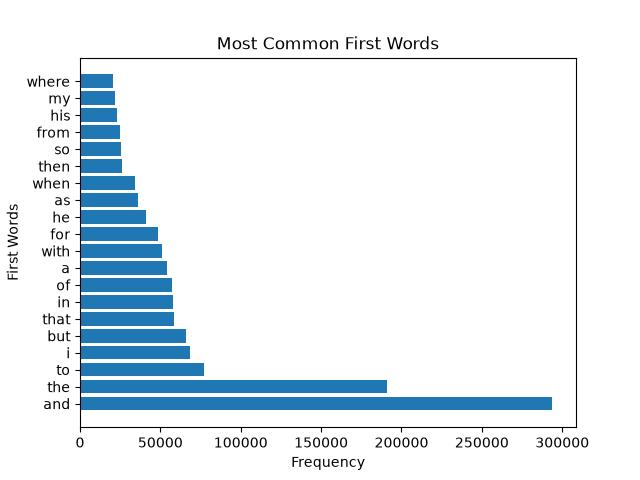
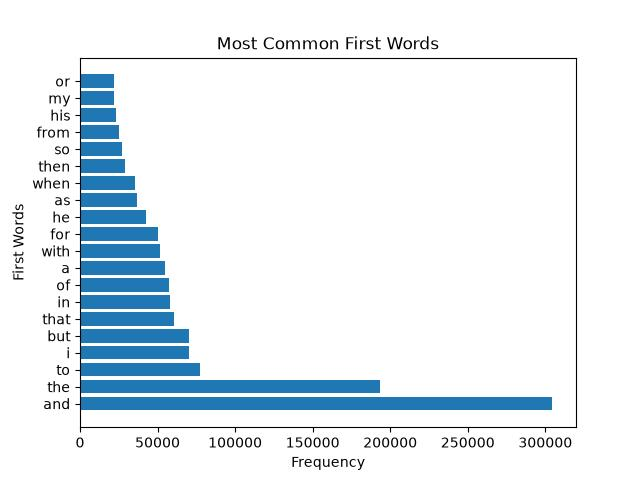
Plot 4

diff --git a/corpus.py b/corpus.py
@@ -4,6 +4,8 @@ import matplotlib.pyplot as plt
 from collections import Counter
 import string
 
+PUNCT = string.punctuation + "“”‘’—–…"
+
 path = "data/gutenberg-poetry-v001.ndjson.gz"
 corpus = gzip.open(path, "rt")
 numbers =[]
@@ -12,59 +14,93 @@ lastwords =[]
 firstwords = []
 allwords = []
 
+
 for row in corpus:
         d = json.loads(row)
-        numbers.append(len(d["s"]))
-        lastwords.append(d["s"].lower().strip(string.punctuation).split(" ")[-1])
-        firstwords.append(d["s"].lower().strip(string.punctuation).split(" ")[0])
-        allwords.append(d["s"].lower().strip(string.punctuation).split(" "))
+        line = d["s"]
+        numbers.append(len(line))
 
-        if len(d["s"]) >= 65:
-            longlines.append(d["s"])
+        clean_words = []
+        for w in line.split():
+            w = w.lower().strip(PUNCT)
+            if w:
+                 clean_words.append(w)
         
-cnt = Counter(lastwords).most_common(20)
-topwords =[]
+        if clean_words:
+             firstwords.append(clean_words[0])
+             lastwords.append(clean_words[-1])
+             allwords.extend(clean_words)
+
+        if len(line) >= 65:
+             longlines.append(line)
+
+last_counts = Counter(lastwords)
+first_counts = Counter(firstwords)
+all_counts = Counter(allwords)
+
+topwords = []
 topwordscounts = []
+for word, count in last_counts.most_common(20):
+    topwords.append(word)
+    topwordscounts.append(count)
 
-firstcnt = Counter(firstwords).most_common(20)
-topfirstwords =[]
+
+topfirstwords = []
 topfirstwordscounts = []
+for word, count in first_counts.most_common(20):
+    topfirstwords.append(word)
+    topfirstwordscounts.append(count)
 
-commoncnt = Counter(allwords).most_common(20)
-#topfirstwords =[]
-#topfirstwordscounts = []
 
-for item in cnt:
-     topwords.append(item[0])
-     topwordscounts.append(item[1])
+neverfirst = []
+neverfirstcounts = []
 
-for item in firstcnt:
-     topfirstwords.append(item[0])
-     topfirstwordscounts.append(item[1])
+for word, count in all_counts.most_common(3000):
+    if word not in first_counts:
+        neverfirst.append(word)
+        neverfirstcounts.append(count)
+print(neverfirst, neverfirstcounts)
 
+
+plt.figure()
 plt.hist(numbers, bins=30, edgecolor="black", color = "green")
 plt.title("Distribution of Line Lengths")
 plt.xlabel("Line length")
 plt.ylabel("Number of lines")
 output_dir = "plots/line_lengths.jpg"
 plt.savefig(output_dir)
+plt.close()
 #plt.show()
 
 output_dir2 = "plots/last_words.jpg"
+plt.figure()
 plt.barh(topwords, topwordscounts)
 plt.title("Most Common Last Words")
 plt.xlabel("Frequency")
 plt.ylabel("Last Words")
 plt.savefig(output_dir2)
+plt.close()
 #plt.show()
 
 output_dir3 = "plots/first_words.jpg"
+plt.figure()
 plt.barh(topfirstwords, topfirstwordscounts)
 plt.title("Most Common First Words")
 plt.xlabel("Frequency")
 plt.ylabel("First Words")
 plt.savefig(output_dir3)
+plt.close()
 #plt.show()
+
+output_dir4 = "plots/never_first_words.jpg"
+plt.figure()
+plt.barh(neverfirst, neverfirstcounts)
+plt.title("Most Common Not-First Words")
+plt.xlabel("Frequency")
+plt.ylabel("Words")
+plt.savefig(output_dir4)
+plt.show()
+plt.close()
 
 
 
